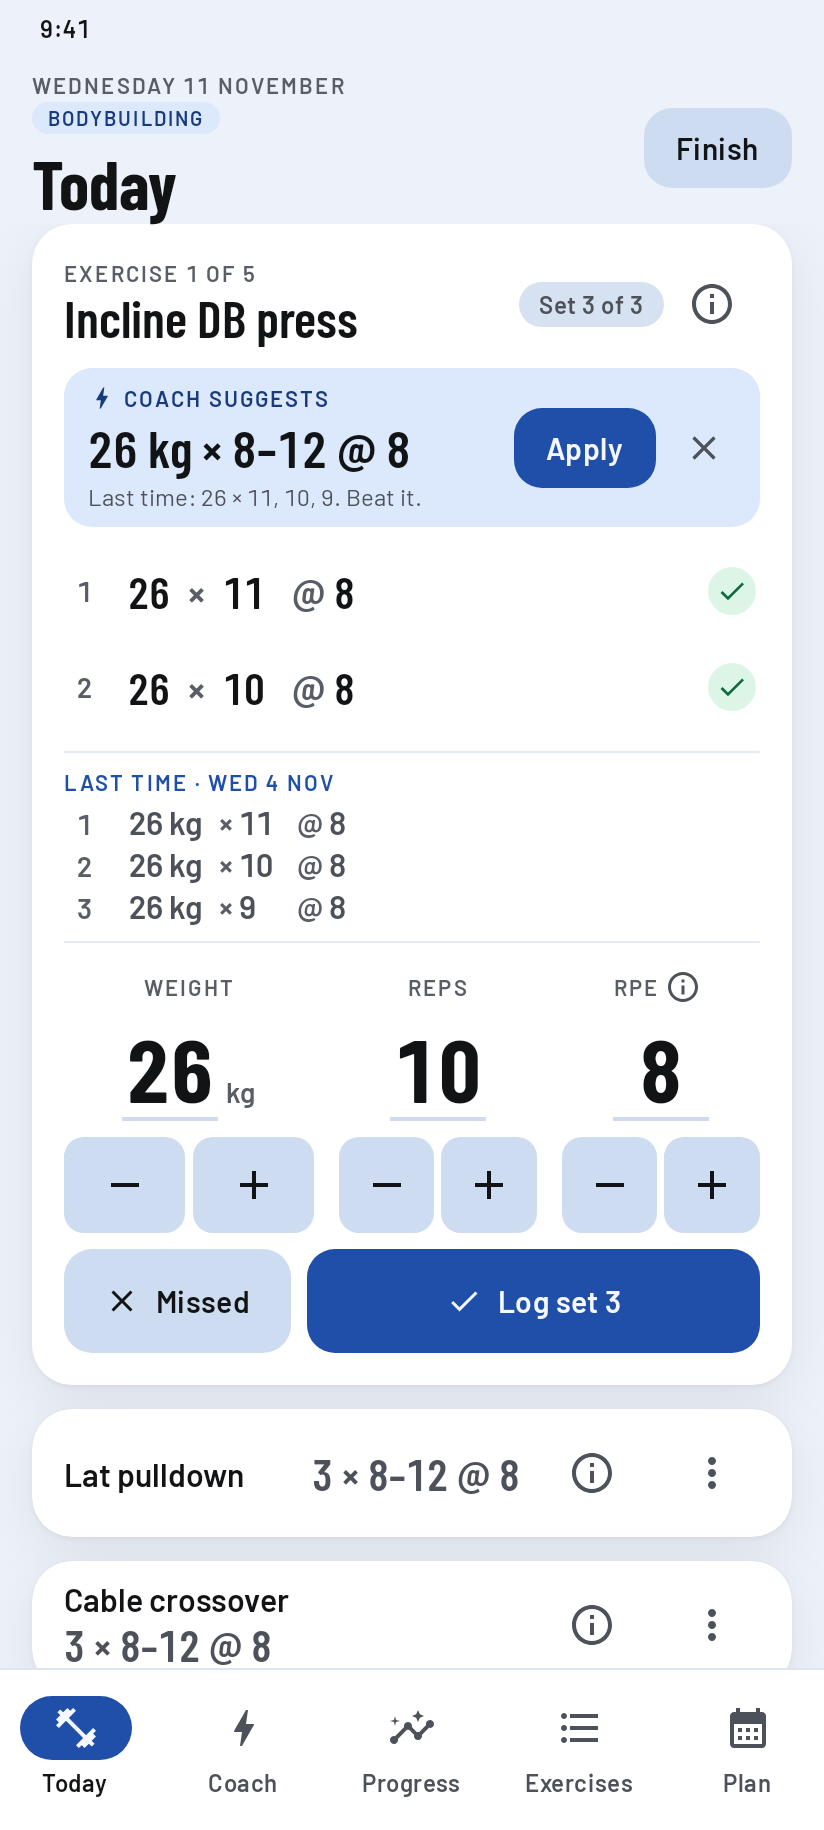
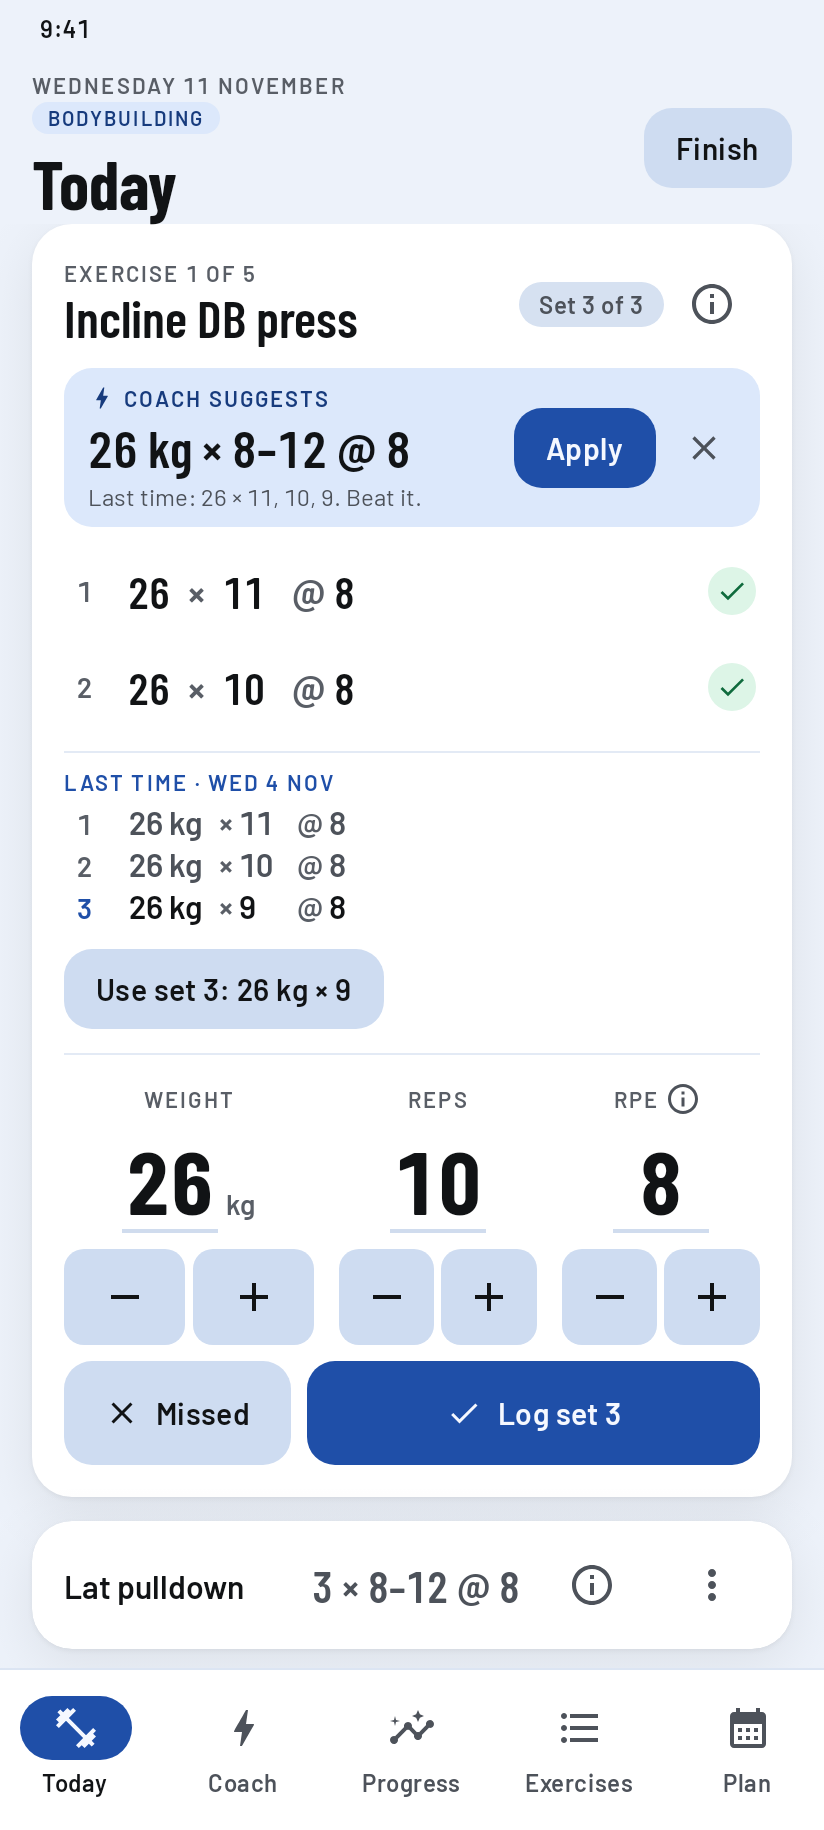
feat(android): last time's row for the next set is marked, and "Use set N" fills its weight and reps
Claude-Session: https://claude.ai/code/session_01KboHw6FdBYrNDSMx1QWyzy

Changed region(s): [[0.0303, 0.4672, 0.9709, 0.9344], [0.8192, 0.5295, 0.8495, 0.5607]]

diff --git a/app/src/test/kotlin/com/powertracker/ui/BodybuildingContentTest.kt b/app/src/test/kotlin/com/powertracker/ui/BodybuildingContentTest.kt
@@ -15,6 +15,7 @@ import com.powertracker.domain.stack.PlateStack
 import com.powertracker.ui.components.formatKg
 import com.powertracker.ui.components.pastSetSpoken
 import com.powertracker.ui.today.lastTimeDate
+import com.powertracker.ui.today.useSetText
 import androidx.compose.ui.test.assertCountEquals
 import com.powertracker.ui.design.assertTextsFit
 import org.junit.Assert.assertFalse
@@ -249,7 +250,8 @@ class BodybuildingContentTest {
 
     /** Wednesday 4 November: a set, a set with no RPE, and a missed one at another weight. */
     private val lastWeek = LastTime(LocalDate(2026, 11, 4), listOf(past(100.0, 12), past(100.0, 11, rpe = null), past(102.5, 8, 9.5, failed = true)))
-    private val lastWeekRows = listOf("Set 1: 100 kg × 12 at RPE 8", "Set 2: 100 kg × 11", "Set 3: 102.5 kg × 8 at RPE 9.5, missed")
+    /** As TalkBack reads them with two sets logged today: the third is the one to match (1.21). */
+    private val lastWeekRows = listOf("Set 1: 100 kg × 12 at RPE 8", "Set 2: 100 kg × 11", "Set 3: 102.5 kg × 8 at RPE 9.5, missed, your next set")
 
     private var shownCard: MutableState<Triple<TrainingMode, LastTime?, List<StoredSet>>>? = null
 
@@ -286,14 +288,17 @@ class BodybuildingContentTest {
             val rows = lastWeekRows.map { top(it) }
             assertEquals("$mode: the rows are in logged order", rows.sorted(), rows)
             assertEquals("$mode: each row is on its own line", rows.distinct().size, rows.size)
-            // Today's two rows and last time's three, and no more ("Set 3 of 3" is the card's count, not a row).
-            compose.onAllNodesWithText(" kg × ", substring = true, useUnmergedTree = true).assertCountEquals(twoSets.size + lastWeekRows.size)
+            // Today's two rows, last time's three and the "Use set 3" button under them (1.21), and no more
+            // ("Set 3 of 3" is the card's count, not a row).
+            compose.onAllNodesWithText(" kg × ", substring = true, useUnmergedTree = true).assertCountEquals(twoSets.size + lastWeekRows.size + 1)
+            compose.onNodeWithText("Use set 3: 102.5 kg × 8").assertExists()
             // After today's logged sets, before the weight entry.
             val lastSet = compose.onNodeWithText("Set 2: 26 kg × 10", substring = true).getUnclippedBoundsInRoot().bottom
             val weight = compose.onNodeWithContentDescription("Weight, kilograms").getUnclippedBoundsInRoot().top
             assertTrue("$mode: the heading comes after the logged sets", top("LAST TIME · WED 4 NOV") >= lastSet)
             assertTrue("$mode: the heading is over the rows", top("LAST TIME · WED 4 NOV") < rows.first())
-            assertTrue("$mode: the whole block ends above the weight entry", bottom(lastWeekRows.last()) <= weight)
+            assertTrue("$mode: the button is under the rows", top("Use set 3: 102.5 kg × 8") >= bottom(lastWeekRows.last()))
+            assertTrue("$mode: the whole block ends above the weight entry", bottom("Use set 3: 102.5 kg × 8") <= weight)
             // The stretch and squeeze lines are not on the card, on either side.
             compose.onNodeWithText("STRETCH", useUnmergedTree = true).assertDoesNotExist()
             compose.onNodeWithText("SQUEEZE", useUnmergedTree = true).assertDoesNotExist()
@@ -331,7 +336,11 @@ class BodybuildingContentTest {
         compose.onNodeWithContentDescription("Weight, kilograms").assertDoesNotExist()
         val lastSet = compose.onNodeWithText("Set 3: 26 kg × 9", substring = true).getUnclippedBoundsInRoot().bottom
         assertTrue("last time comes after the logged sets", top("LAST TIME · WED 4 NOV") >= lastSet)
-        assertTrue("the whole block ends above the button", bottom(lastWeekRows.last()) <= top("Finish session"))
+        // Nothing is being logged, so no row is marked and there is no "Use set" button.
+        val unmarked = "Set 3: 102.5 kg × 8 at RPE 9.5, missed"
+        assertTrue("the whole block ends above the button", bottom(unmarked) <= top("Finish session"))
+        compose.onAllNodesWithText("your next set", substring = true, useUnmergedTree = true).assertCountEquals(0)
+        compose.onAllNodesWithText("Use set", substring = true, useUnmergedTree = true).assertCountEquals(0)
     }
 
     @Test
@@ -380,7 +389,10 @@ class BodybuildingContentTest {
         assertFalse("the heading is ellipsised", (0 until layout.lineCount).any { layout.isLineEllipsized(it) })
         assertEquals("the heading's last line ends with its last letter", "LAST TIME · WED 4 NOV".length, layout.getLineEnd(layout.lineCount - 1))
         // Every row is inside the screen and drawn whole, one under the other.
-        val rows = (1..8).map { n -> compose.onNodeWithText("Set $n: ${formatKg(101.5 + n)} kg × ${16 - n} at RPE 9.5" + if (n == 8) ", missed" else "", useUnmergedTree = true) }
+        // Two sets are logged today, so the third row is the marked one.
+        val rows = (1..8).map { n ->
+            compose.onNodeWithText("Set $n: ${formatKg(101.5 + n)} kg × ${16 - n} at RPE 9.5" + (if (n == 8) ", missed" else "") + (if (n == 3) ", your next set" else ""), useUnmergedTree = true)
+        }
         var above = h.boundsInRoot.bottom
         for ((i, row) in rows.withIndex()) {
             val b = row.getUnclippedBoundsInRoot()
@@ -391,6 +403,53 @@ class BodybuildingContentTest {
             assertTrue("row ${i + 1} is below the one before", n.boundsInRoot.top >= above - 0.5f)
             above = n.boundsInRoot.bottom
         }
+        // The "Use set" button under the rows is whole and inside the screen.
+        val use = compose.onNodeWithText("Use set 3: 104.5 kg × 13").getUnclippedBoundsInRoot()
+        assertTrue("the Use set button is inside the screen", use.left >= screen.left && use.right <= screen.right)
+        assertTrue("the Use set button is below the rows", use.top >= rows.last().getUnclippedBoundsInRoot().bottom)
         compose.assertTextsFit()
+    }
+
+    // ---- 1.21: the row for the set about to be logged is marked, and "Use set N" fills its weight and reps ----
+
+    @Test
+    fun useSet_marksTheRowForTheNextSet_andPutsItsWeightAndRepsInTheFields_loggingNothing() {
+        val edits = mutableListOf<Pair<Long, SetEditor>>()
+        var logged = 0
+        compose.setContent {
+            PowertrackerTheme {
+                TodayContent(
+                    TodayState(date, loading = false, sessionId = 1, items = listOf(item(squat, twoSets).copy(lastTime = lastWeek)), mode = TrainingMode.POWERLIFTING),
+                    TodayActions(onEdit = { id, editor -> edits += id to editor }, onLogSet = { _, _ -> logged++ }),
+                )
+            }
+        }
+        // Two sets are logged, so last time's third is the one to match: the only row marked.
+        compose.onAllNodesWithText("your next set", substring = true, useUnmergedTree = true).assertCountEquals(1)
+        compose.onNodeWithText("Set 3: 102.5 kg × 8 at RPE 9.5, missed, your next set", useUnmergedTree = true).assertExists()
+        assertEquals("Use set 3: 102.5 kg × 8", useSetText(3, lastWeek.sets[2]))
+        compose.onNodeWithText("Use set 3: 102.5 kg × 8").performClick()
+        // The weight and the reps of that row, the effort as it was in the field; nothing logged.
+        assertEquals(listOf(squat.id to SetEditor(102.5, 8, 8.0)), edits)
+        assertEquals(0, logged)
+    }
+
+    @Test
+    fun useSet_pastLastTimesSets_orInAnotherUnit_hasNoButton() {
+        // Three sets last time and three logged today, with a fourth asked for: none to match.
+        val oneSet = LastTime(LocalDate(2026, 11, 4), listOf(past(100.0, 12)))
+        showCard(TrainingMode.POWERLIFTING, oneSet)
+        compose.onNodeWithText("Set 1: 100 kg × 12 at RPE 8", useUnmergedTree = true).assertExists()
+        compose.onAllNodesWithText("your next set", substring = true, useUnmergedTree = true).assertCountEquals(0)
+        compose.onAllNodesWithText("Use set", substring = true, useUnmergedTree = true).assertCountEquals(0)
+
+        // The set to match was logged as a plate number; the squat counts in kg: it is marked, but cannot be used.
+        showCard(TrainingMode.POWERLIFTING, LastTime(LocalDate(2026, 11, 4), listOf(past(100.0, 12), past(100.0, 11), past(7.5, 10, unit = LoadUnit.PLATES))))
+        compose.onNodeWithText("Set 3: ${PlateStack.spoken(7.5)} × 10 at RPE 8, your next set", useUnmergedTree = true).assertExists()
+        compose.onAllNodesWithText("Use set", substring = true, useUnmergedTree = true).assertCountEquals(0)
+
+        // The same set in kg can.
+        showCard(TrainingMode.POWERLIFTING, LastTime(LocalDate(2026, 11, 4), listOf(past(100.0, 12), past(100.0, 11), past(97.5, 10))))
+        compose.onNodeWithText("Use set 3: 97.5 kg × 10").assertExists()
     }
 }

diff --git a/app/src/main/kotlin/com/powertracker/ui/components/PastSets.kt b/app/src/main/kotlin/com/powertracker/ui/components/PastSets.kt
@@ -46,11 +46,12 @@ fun pastSetSpoken(number: Int, set: LoggedSet): String = buildString {
  * Today card under "Last time", and in each workout of Progress's History. Read-only and quieter than a set being
  * logged: smaller figures in the secondary colour, no tick, nothing to tap. Each row is one sentence to TalkBack.
  * The weights end on one line and the "@" signs start on one; at a large font size or on a narrow screen a row's parts
- * go to the next line whole, never cut.
+ * go to the next line whole, never cut. [next] (1.21, Today only) is the index, from 0, of the row that matches the set
+ * about to be logged: it is drawn in the full text colour with its number in the accent, and reads ", your next set".
  */
 @OptIn(ExperimentalLayoutApi::class)
 @Composable
-fun PastSets(sets: List<LoggedSet>, modifier: Modifier = Modifier) {
+fun PastSets(sets: List<LoggedSet>, modifier: Modifier = Modifier, next: Int? = null) {
     val scheme = MaterialTheme.colorScheme
     val pt = PowertrackerTheme.colors
     val style = MaterialTheme.typography.titleMedium
@@ -65,19 +66,21 @@ fun PastSets(sets: List<LoggedSet>, modifier: Modifier = Modifier) {
     }
     Column(modifier.testTag("past-sets"), verticalArrangement = Arrangement.spacedBy(Space.xxs)) {
         sets.forEachIndexed { i, set ->
+            val marked = i == next
+            val figures = if (marked) scheme.onSurface else scheme.onSurfaceVariant
             Row(
-                Modifier.fillMaxWidth().clearAndSetSemantics { text = AnnotatedString(pastSetSpoken(i + 1, set)) },
+                Modifier.fillMaxWidth().clearAndSetSemantics { text = AnnotatedString(pastSetSpoken(i + 1, set) + if (marked) ", your next set" else "") },
                 horizontalArrangement = Arrangement.spacedBy(Space.m),
             ) {
-                Text((i + 1).toString(), style = MaterialTheme.typography.titleSmall, color = pt.muted, textAlign = TextAlign.Center, modifier = Modifier.width(20.dp).alignByBaseline())
+                Text((i + 1).toString(), style = MaterialTheme.typography.titleSmall, color = if (marked) pt.accentText else pt.muted, textAlign = TextAlign.Center, modifier = Modifier.width(20.dp).alignByBaseline())
                 FlowRow(Modifier.weight(1f).alignByBaseline(), horizontalArrangement = Arrangement.spacedBy(Space.s)) {
-                    Text(loads[i], style = style, color = scheme.onSurfaceVariant, textAlign = TextAlign.End, maxLines = 1, modifier = Modifier.widthIn(min = loadWidth))
+                    Text(loads[i], style = style, color = figures, textAlign = TextAlign.End, maxLines = 1, modifier = Modifier.widthIn(min = loadWidth))
                     Text(
                         buildAnnotatedString {
                             withStyle(SpanStyle(color = pt.muted)) { append("× ") }
                             append(set.reps.toString())
                         },
-                        style = style, color = scheme.onSurfaceVariant, maxLines = 1, modifier = Modifier.widthIn(min = repsWidth),
+                        style = style, color = figures, maxLines = 1, modifier = Modifier.widthIn(min = repsWidth),
                     )
                     set.rpe?.let { rpe ->
                         Text(
@@ -85,7 +88,7 @@ fun PastSets(sets: List<LoggedSet>, modifier: Modifier = Modifier) {
                                 withStyle(SpanStyle(color = pt.muted)) { append("@ ") }
                                 append(formatRpe(rpe))
                             },
-                            style = style, color = scheme.onSurfaceVariant, maxLines = 1, modifier = Modifier.padding(start = Space.xs),
+                            style = style, color = figures, maxLines = 1, modifier = Modifier.padding(start = Space.xs),
                         )
                     }
                     if (set.failed) {

diff --git a/app/src/main/kotlin/com/powertracker/ui/today/ExerciseCard.kt b/app/src/main/kotlin/com/powertracker/ui/today/ExerciseCard.kt
@@ -305,10 +305,20 @@ private fun ColumnScope.CardContent(
         // What was done on this exercise last time (1.20), on both sides, where the stretch and squeeze lines were on the
         // bodybuilding side (they are in the exercise's guide). An exercise never done on this side adds nothing here,
         // not even a gap.
-        item.lastTime?.takeIf { it.sets.isNotEmpty() }?.let { LastTimeBlock(it, today) }
+        // While the card takes sets (1.21), the row of last time with the number of the set about to be logged is
+        // marked, and "Use set N" puts its weight and reps in the fields: only from a set in the unit the exercise
+        // counts in now, so a plate number never goes in a kg field.
+        val entering = !item.isComplete || extraSet
+        item.lastTime?.takeIf { it.sets.isNotEmpty() }?.let { last ->
+            val next = item.sets.size.takeIf { entering && it < last.sets.size }
+            val match = next?.let { last.sets[it] }
+            LastTimeBlock(
+                last, today, next,
+                onUse = if (match != null && match.unit == item.unit) ({ actions.onEdit(id, item.editor.copy(weightKg = match.weightKg, reps = match.reps)) }) else null,
+            )
+        }
 
         // The entry, or once the sets are done, the way on: one slides closed as the other slides open.
-        val entering = !item.isComplete || extraSet
         SlidingBlock(entering, spacing = Space.s) {
             SoftDivider()
             Editor(item, weightStepKg, changePlates, actions)
@@ -329,9 +339,11 @@ internal fun lastTimeDate(date: LocalDate, today: LocalDate): String =
 /**
  * "Last time · Wed 18 Nov" over every set of that session ([PastSets]), between the logged sets and the weight entry,
  * and above the way on once the day's sets are done. The heading wraps at a large font size; nothing is cut.
+ * [next] (1.21) is the index, from 0, of the row to mark as the set about to be logged; [onUse] puts that row's weight
+ * and reps in the fields, and without it there is no button.
  */
 @Composable
-private fun LastTimeBlock(last: LastTime, today: LocalDate) {
+private fun LastTimeBlock(last: LastTime, today: LocalDate, next: Int? = null, onUse: (() -> Unit)? = null) {
     Column(Modifier.testTag("last-time"), verticalArrangement = Arrangement.spacedBy(Space.xs)) {
         SoftDivider()
         Text(
@@ -340,9 +352,15 @@ private fun LastTimeBlock(last: LastTime, today: LocalDate) {
             color = PowertrackerTheme.colors.accentText,
             modifier = Modifier.padding(top = Space.xs).semantics { heading() },
         )
-        PastSets(last.sets)
+        PastSets(last.sets, next = next)
+        if (next != null && onUse != null) {
+            SecondaryButton(useSetText(next + 1, last.sets[next]), onUse, compact = true, modifier = Modifier.padding(top = Space.xs))
+        }
     }
 }
+
+/** "Use set 2: 25 kg × 9"; "Use set 1: plate 7½ × 12". The web app's words. */
+internal fun useSetText(number: Int, set: LoggedSet): String = "Use set $number: ${formatLoad(set.weightKg, set.unit)} × ${set.reps}"
 
 @Composable
 private fun MissRow(number: Int, set: LoggedSet, lift: MainLift?, onSelect: (MissPoint?) -> Unit) {
